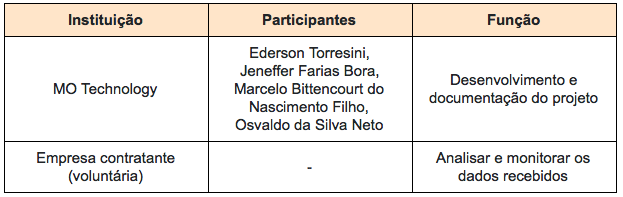
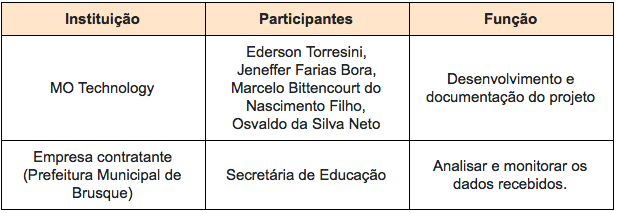
Versão 2 termo de abertura

Changed region(s): [[0.0, 0.0, 1.0, 1.0], [0.0616, 0.3655, 0.2771, 0.4873]]

diff --git a/post.html b/post.html
@@ -80,9 +80,10 @@
 
           <h2 class="section-heading" style="font-size: 21px">1. Objetivos do projeto</h2>
 
-          <p> Realizar a implementação de uma rede de sensores para a captura de dados relacionados à temperatura e 
-            umidade de um sistemas de plantação hidropônica, visando o controle e possíveis prevenções relacionadas 
-            à mesma utilizando como objeto de análise o microcontrolador Arduino.</p>
+          <p> Realizar a implementação de uma rede de sensores para a captura de dados relacionados à 
+            temperatura e umidade de um sistemas de plantação hidropônica, visando o controle e possíveis 
+            prevenções relacionadas a mesma utilizando como objeto de análise um microcontrolador.
+          </p>
 
           <h2 class="section-heading" style="font-size: 21px">2. Situação atual e justificativa</h2>
 
@@ -91,18 +92,21 @@
             custo-benefício adequada.” (TERUEL, Bárbara)<br />
           </p> 
           <p>Tendo em vista este panorama, o projeto se propõem a automatizar e facilitar a administração de dados relacionados à hidroponias. 
-            Uma vez que o administrador da hidroponia nem sempre está geograficamente próximo a um sistema, desta forma ele poderá estar 
-            recebendo e analisando as condições atuais tornando o controle deste mais eficiente, garantindo uma maior assertividade no cuidado, 
-            preservação e produtividade do cultivo. 
+            Uma vez que o administrador da plantação nem sempre está próximo, desta forma ele poderá estar recebendo e analisando as condições 
+            atuais tornando o controle desta mais eficiente, garantindo uma maior assertividade no cuidado, preservação e produtividade do cultivo.
           </p>
           
 
           <h2 class="section-heading" style="font-size: 21px">3. Descrição geral</h2>
 
-          <p>O sistema proposto por este projeto fará o monitoramento do controle de temperatura e umidade do ar em hidroponias. 
-            Os dados coletados pelo sensor de umidade (DHT11) serão encaminhados via rádio para uma estação base composta por um 
-            Arduino, que irá armazenar e encaminhar estes dados para um servidor onde o usuário poderá fazer suas respectivas análises 
-            podendo, desta forma, tomar algum tipo de ação em relação a sua plantação hidropônica.
+          <p>O sistema proposto por este projeto fará o monitoramento do controle de temperatura e umidade do ar em 
+            hidroponias. Os dados coletados pelo sensor de umidade serão encaminhados via rádio para uma estação base 
+            composta por um microcontrolador que irá armazenar e encaminhar estas informações para um banco de dados.
+          </p>
+          <p>   
+            Os dados do banco serão encaminhados para uma página web onde o usuário poderá fazer o acompanhamento das 
+            oscilações de temperatura e umidade do ambiente podendo, desta forma, tomar algum tipo de ação em relação 
+            a sua plantação.
           </p>
           
         
@@ -121,9 +125,11 @@
               <img class="img-fluid" src="img/interesses.jpg" alt=""> <br />
           </a>
 
-          <p>Vale ressaltar que a principal interessada no funcionamento do projeto é a equipe MO Technology, 
-            por se tratar de um projeto piloto para a empresa. Caso concluído, esta etapa poderá ser comercializado 
-            a nível local.
+          <p>Vale ressaltar que caso concluída esta etapa, o produto  poderá ser apresentado para a Prefeitura Municipal 
+            de Brusque. O projeto será utilizado para fins educacionais que consistirá em ensinar professores da rede 
+            municipal de ensino a programar e desenvolver o sistema projetado por nossa equipe. A partir da formação 
+            desses professores, eles estarão capacitados a ensinar os alunos da  rede pública de ensino da cidade a 
+            trabalhar com o sistema desenvolvido.  
           </p>
 
           <h2 class="section-heading" style="font-size: 21px">6. Restrições</h2>
@@ -134,10 +140,11 @@
 
           <h2 class="section-heading" style="font-size: 21px">7. Premissas</h2>
 
-          <p>Cada membro do grupo se disponibilizará de alguns minutos por dia para uma rápida reunião, onde será 
-            discutido toda situação do projeto. Também serão realizados trabalhos em equipe e individual, onde cada 
-            um será responsável pela sua tarefa e a equipe pela entrega de todo o escopo, ficando assim livre a escolha 
-            do horário para realização de seu trabalho.
+          <p>Cada membro do grupo disponibilizará aproximadamente 15 minutos  por dia para uma rápida reunião, onde será 
+            discutido toda situação do projeto. Também serão realizado trabalhos em equipe e individual, onde cada um será 
+            ponsável pela sua tarefa e a equipe pela entrega de todo o escopo, ficando assim livre a escolha do horário para 
+            realização de seu trabalho. No final de cada semana, o grupo se reunirá para debater as metas alcançadas e as que 
+            ainda faltam serem concluídas até a entrega da tarefa semanal.
           </p>
           
 
@@ -150,6 +157,7 @@
              - Problemas de comunicação na transmissão de dados; <br />
              - Problemas na aquisição dos materiais necessários; <br />
              - Falta de planejamento da equipe.                  <br />
+             - Queima de equipamentos.                           <br />
           </p>
           
 
@@ -157,8 +165,12 @@
 
           <a href="#"> 
               <img class="img-fluid" src="img/preco.jpg" alt="">
-           </a>
- 
+          </a>
+          
+          <p>
+              O orçamento previsto é incerto, podendo ter variações para mais ou para menos ao decorrer do 
+              desenvolvimento do projeto devido a substituição ou a adição de novos componentes.
+          </p>
 
           <!--<a href="#"> -->
            <!--<img class="img-fluid" src="img/post-sample-image.jpg" alt="">
